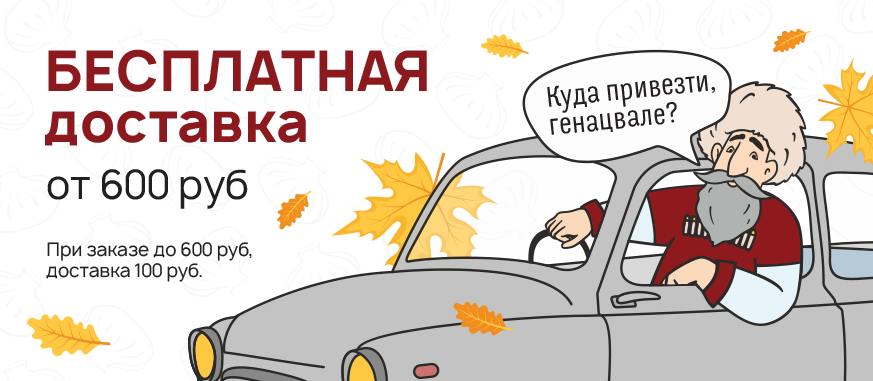
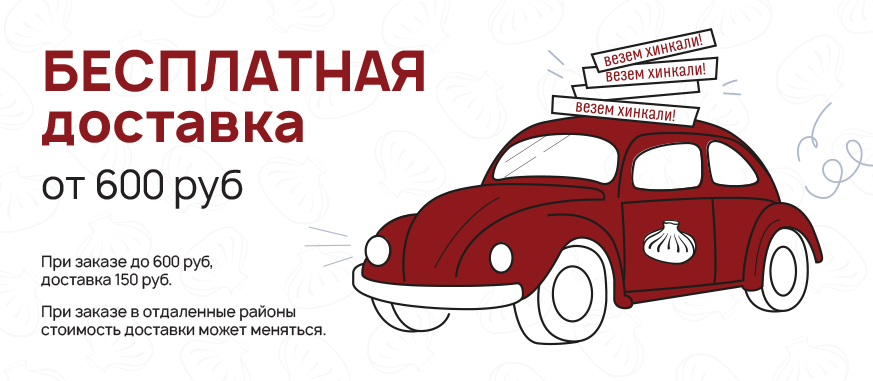
скрыл оплату, банеры

diff --git a/client/src/application/components/common/Stocks/Stocks.tsx b/client/src/application/components/common/Stocks/Stocks.tsx
@@ -23,13 +23,13 @@ const Stocks = () => {
 
     return (
         <div className="stocks">
-            <Slider {...settings}>
+          <Slider {...settings}>
+                <StockItem content={'stock6.png'} />
                 <StockItem content={'stock1.png'} />
                 <StockItem content={'stock8.png'} />
                 <StockItem content={'stock3.png'} />
                 <StockItem content={'stock4.png'} />
                 <StockItem content={'stock5.png'} />
-                <StockItem content={'stock6.png'} />
                 <StockItem content={'stock7.png'} />
             </Slider>
             

diff --git a/client/src/application/components/core/Cart/CartForm/CartFormBuilder.ts b/client/src/application/components/core/Cart/CartForm/CartFormBuilder.ts
@@ -5,7 +5,7 @@ export class FormBuilderCart {
     static delivery(metods: ICartFormMetods) {
         return (builder: any): IWrapper[] => {
             return [
-                builder.paymentPopup(),
+                //builder.paymentPopup(),
                 //builder.payment(metods.paymentsMetod),
                 builder.adress(),
                 builder.name(),
